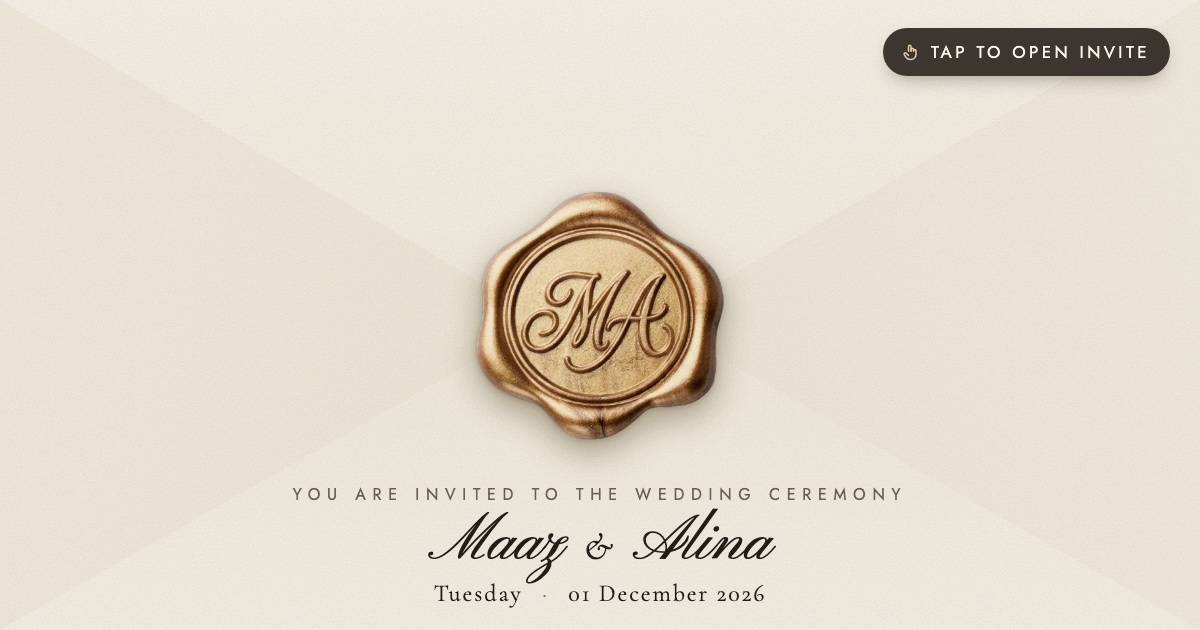
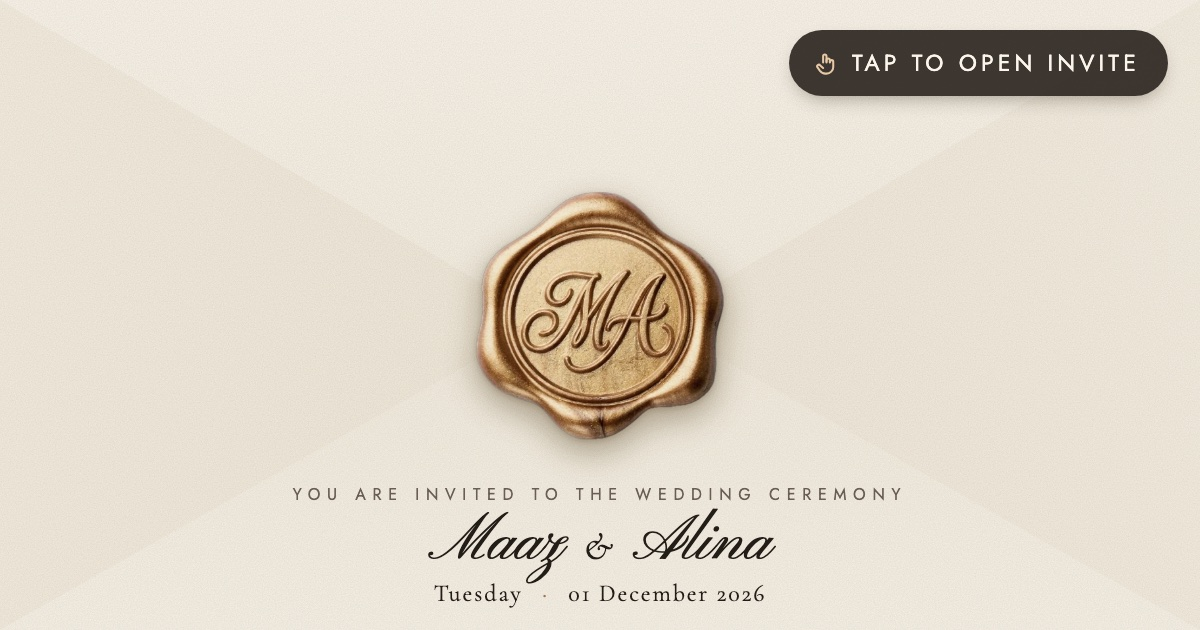
Larger "Tap to open invite" label on preview cards

Changed region(s): [[0.6475, 0.0302, 0.9867, 0.181]]

diff --git a/index.html b/index.html
@@ -10,7 +10,7 @@
   <meta property="og:url" content="https://maaz-alina.vercel.app/">
   <meta property="og:title" content="Maaz &amp; Alina · You are invited">
   <meta property="og:description" content="Wedding Ceremony · Tuesday 01 December &amp; Walima Reception · Thursday 03 December 2026. Tap to open your invitation.">
-  <meta property="og:image" content="https://maaz-alina.vercel.app/assets/img/og.jpg?v=3">
+  <meta property="og:image" content="https://maaz-alina.vercel.app/assets/img/og.jpg?v=4">
   <meta property="og:image:type" content="image/jpeg">
   <meta property="og:image:width" content="1200">
   <meta property="og:image:height" content="630">

diff --git a/barat-Akfarm-01/index.html b/barat-Akfarm-01/index.html
@@ -10,7 +10,7 @@
   <meta property="og:url" content="https://maaz-alina.vercel.app/barat-Akfarm-01/">
   <meta property="og:title" content="Maaz &amp; Alina · Wedding Ceremony">
   <meta property="og:description" content="Tuesday, 01 December 2026 · AK Farmhouse and Events, Lahore. Tap to open your invitation.">
-  <meta property="og:image" content="https://maaz-alina.vercel.app/assets/img/og-barat.jpg?v=3">
+  <meta property="og:image" content="https://maaz-alina.vercel.app/assets/img/og-barat.jpg?v=4">
   <meta property="og:image:type" content="image/jpeg">
   <meta property="og:image:width" content="1200">
   <meta property="og:image:height" content="630">

diff --git a/walima-zainab-03/index.html b/walima-zainab-03/index.html
@@ -10,7 +10,7 @@
   <meta property="og:url" content="https://maaz-alina.vercel.app/walima-zainab-03/">
   <meta property="og:title" content="Maaz &amp; Alina · Walima Reception">
   <meta property="og:description" content="Thursday, 03 December 2026 · Zainab Marquee, Khanpur. Tap to open your invitation.">
-  <meta property="og:image" content="https://maaz-alina.vercel.app/assets/img/og-walima.jpg?v=3">
+  <meta property="og:image" content="https://maaz-alina.vercel.app/assets/img/og-walima.jpg?v=4">
   <meta property="og:image:type" content="image/jpeg">
   <meta property="og:image:width" content="1200">
   <meta property="og:image:height" content="630">
